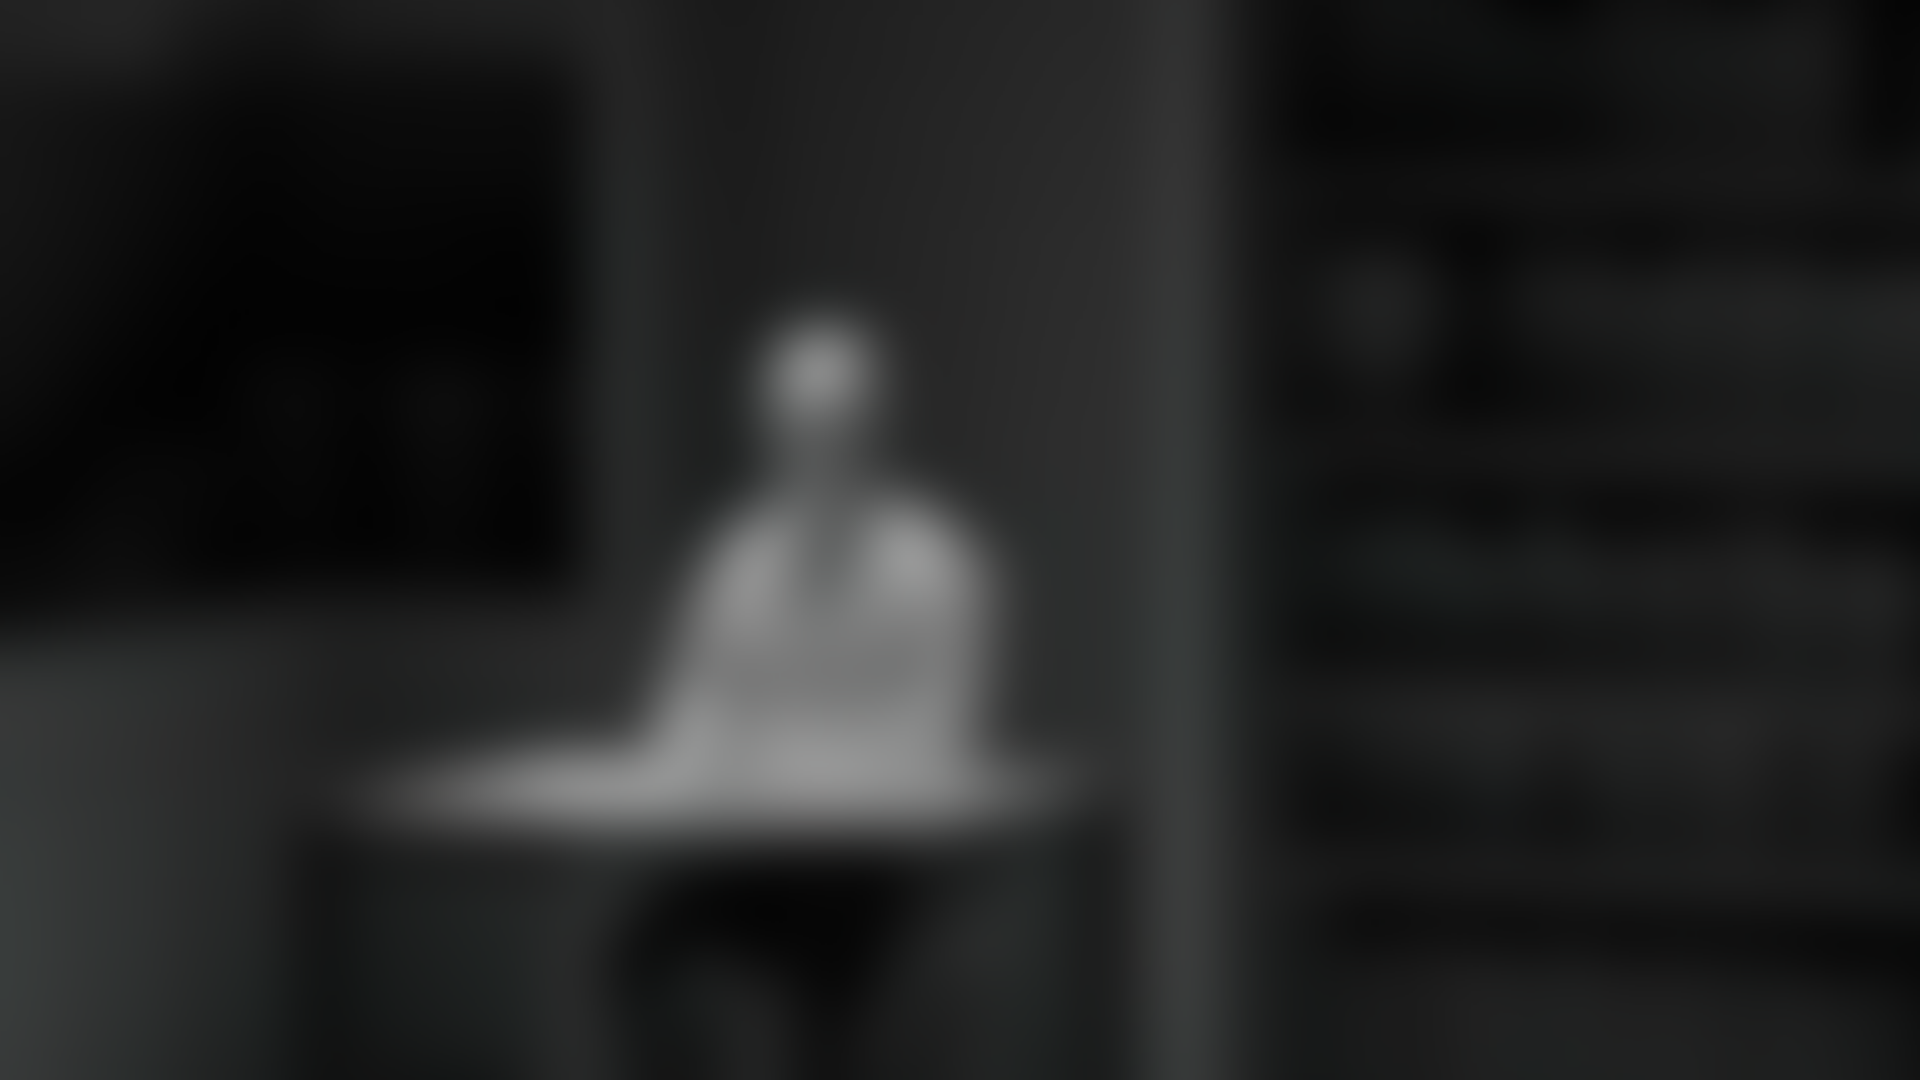
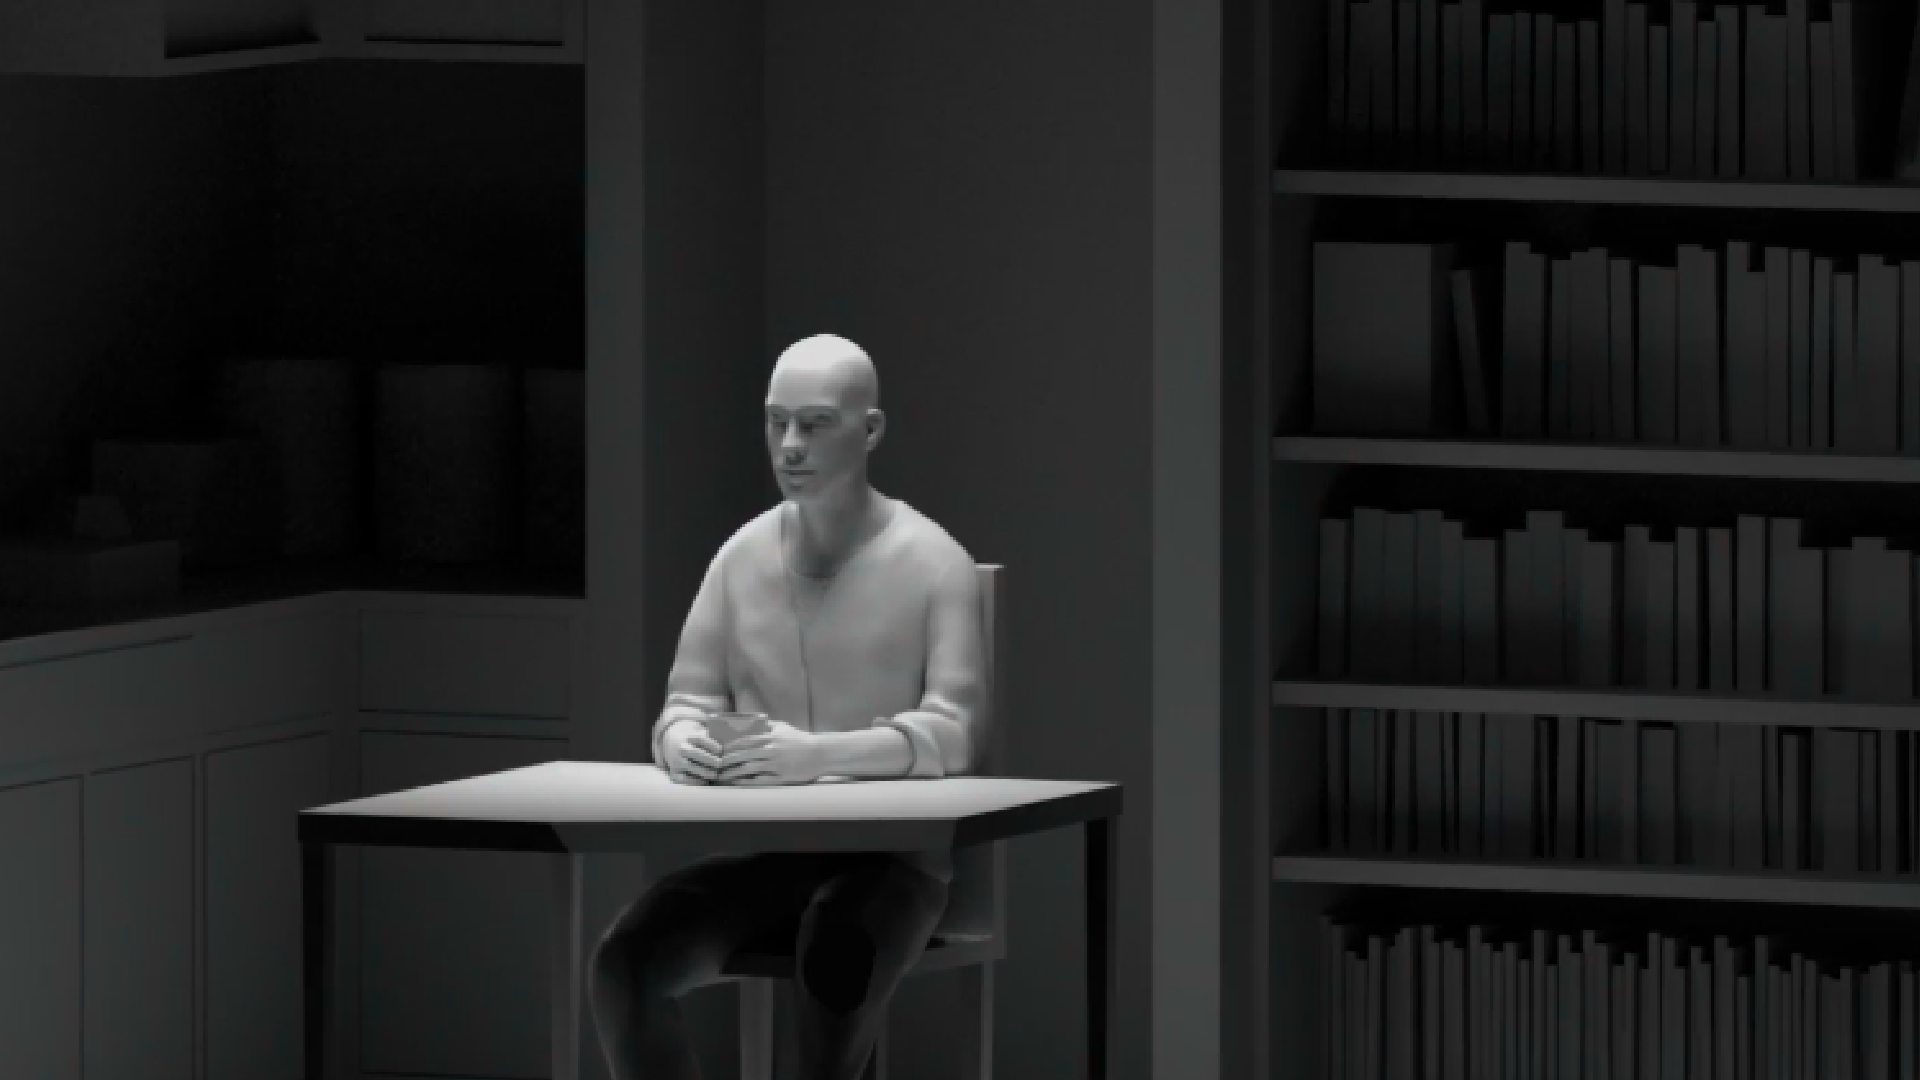
[update] (style): [fixed LayoutContainer component style]

diff --git a/src/components/layout/Container/index.tsx b/src/components/layout/Container/index.tsx
@@ -1,6 +1,6 @@
 import React from 'react';
 import Box from '@mui/material/Box';
-import { Container } from '@material-ui/core';
+import { Container, Paper } from '@material-ui/core';
 import { useTheme } from '@mui/material/styles';
 
 import Background from '../../../assets/images/background/background.png'; 
@@ -8,22 +8,27 @@ import Background from '../../../assets/images/background/background.png';
 const LayoutContainer: React.FC = ({ children }) => {
   const theme = useTheme();
 
-  return (
+  const backgroundIcon = (
     <Box
       sx={{
-        height: '100vh',
-        width: '100%',
-        backgroundImage: `url(${ Background })`,
-        backgroundRepeat: 'no-repeat',
-        backgroundSize: 'cover',
-        backgroundColor: theme.palette.background.default,
-        backgroundBlendMode: 'difference'
+        backgroundColor: theme.palette.primary.main,
+        height:200,
+        width: 200,
+        borderRadius: 100,
       }}
+    />
+  )
+
+  return (
+    <Paper
+      className="background"
+      sx={{backgroundImage: `url(${ Background })`}}
     >
-      <Container maxWidth="xl">
-        {children}
+      { backgroundIcon /* All of the background icons will be here */ }
+      <Container maxWidth="xl" className="mainContent" component="main">
+        { children }
       </Container>
-    </Box>
+    </Paper>
   );
 }
 

diff --git a/src/assets/styles/Theme.tsx b/src/assets/styles/Theme.tsx
@@ -7,7 +7,7 @@ const Theme = (mode: PaletteMode) => useMemo(
     palette: {
       mode,
       common: {
-        black: '#73ff00',
+        black: '#000',
       },
       primary: {
         main: '#F6514E',
@@ -72,6 +72,42 @@ const Theme = (mode: PaletteMode) => useMemo(
         lg: 1536,
         xl: 1728,
       },
+    },
+    components: {
+      MuiPaper: {
+        variants: [
+          {
+            props: { className: 'background' },
+            style: {
+              height: '100vh',
+              backgroundColor: 'background.default',
+              backgroundRepeat: 'no-repeat',
+              backgroundSize: 'cover',
+              backgroundPosition: 'center',
+              backgroundBlendMode: 'difference',
+              display: 'flex',
+              justifyContent: 'center',
+              '&::before': {
+                content: '""',
+                backdropFilter: 'blur(25px)',
+                height: '100%',
+                position: 'absolute',
+                width: '100%',
+              },
+            }
+          }
+        ]
+      },
+      MuiContainer: {
+        variants: [
+          {
+            props: { className: 'mainContent' },
+            style: {
+              position: 'absolute',
+            }
+          }
+        ]
+      }
     },
   }),
   [mode]
